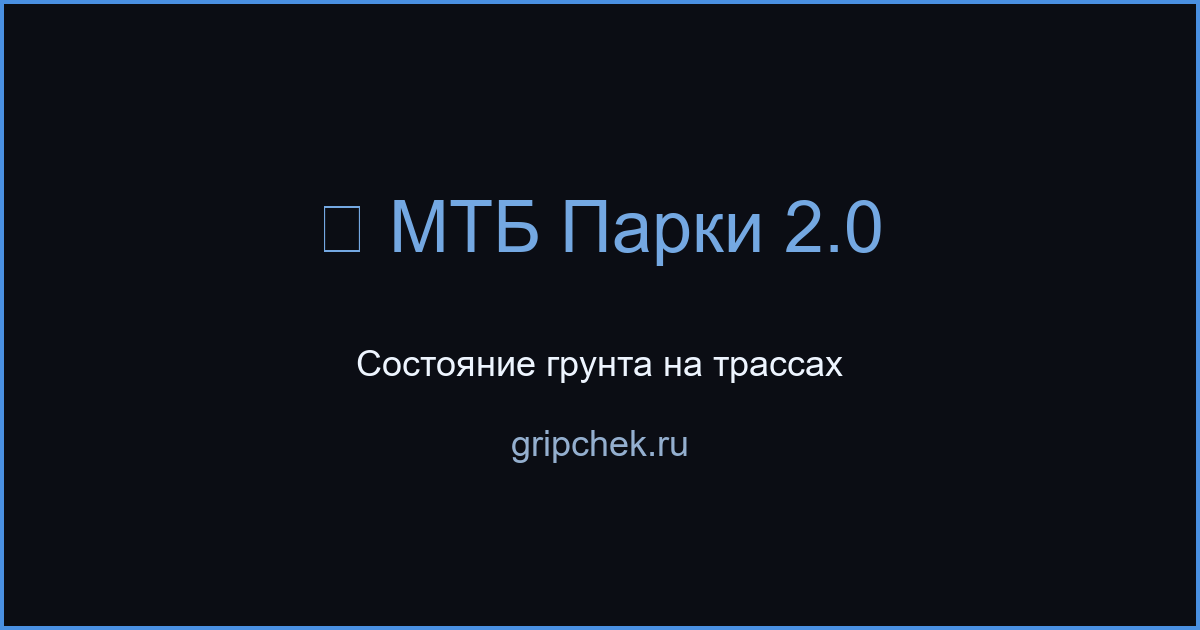
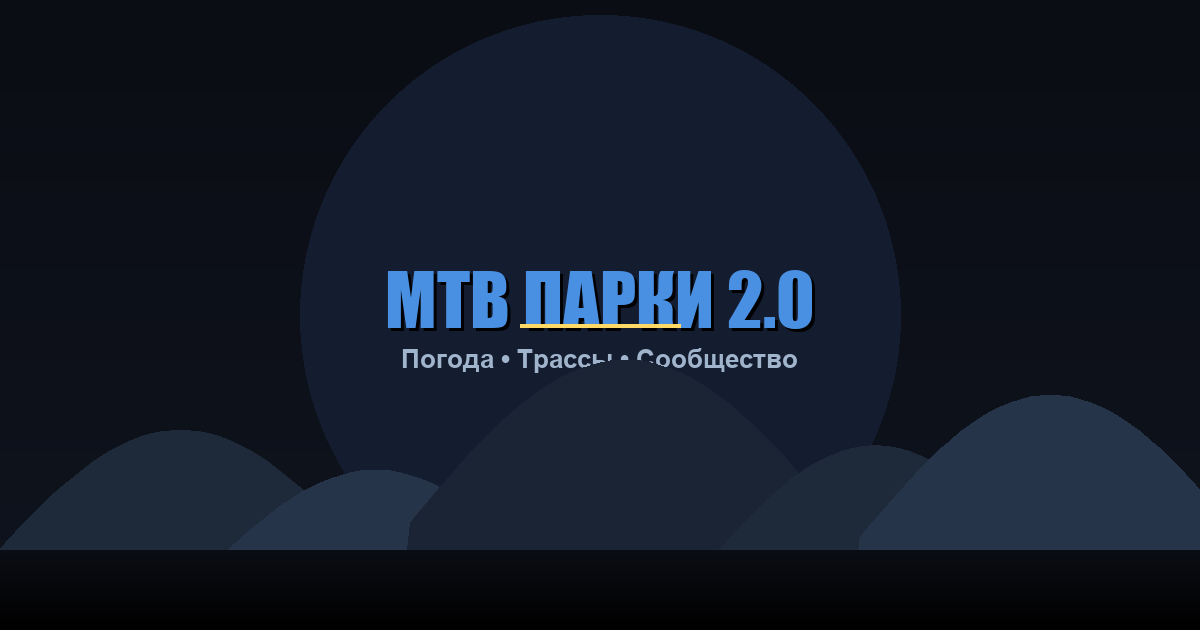
fix: visible OG image (was 99% black) with title, subtitle, mountain silhouette

diff --git a/gen_og.py b/gen_og.py
@@ -1,0 +1,81 @@
+from PIL import Image, ImageDraw, ImageFont, ImageFilter
+import math
+
+W, H = 1200, 630
+img = Image.new('RGB', (W, H), '#0b0d14')
+draw = ImageDraw.Draw(img)
+
+# Gradient overlay: dark blue to darker
+for y in range(H):
+    ratio = y / H
+    r = int(11 + 4 * ratio)
+    g = int(13 + 7 * ratio)
+    b = int(20 + 10 * ratio)
+    draw.line([(0, y), (W, y)], fill=(r, g, b))
+
+# Subtle radial glow in center
+cx, cy = W // 2, H // 2
+for r in range(300, 0, -1):
+    alpha = int(8 * (1 - r / 300))
+    draw.ellipse([cx - r, cy - r, cx + r, cy + r], fill=(20, 28, 48, alpha))
+
+# Load fonts
+font_title = ImageFont.truetype('C:/Windows/Fonts/impact.ttf', 72)
+font_sub = ImageFont.truetype('C:/Windows/Fonts/arialbd.ttf', 26)
+font_small = ImageFont.truetype('C:/Windows/Fonts/arial.ttf', 18)
+
+# Title text
+title = 'MTB ПАРКИ 2.0'
+bbox = draw.textbbox((0, 0), title, font=font_title)
+tw = bbox[2] - bbox[0]
+th = bbox[3] - bbox[1]
+tx = (W - tw) // 2
+ty = H // 2 - 60
+
+# Shadow
+draw.text((tx + 3, ty + 3), title, font=font_title, fill=(0, 0, 0, 128))
+draw.text((tx, ty), title, font=font_title, fill='#4a90e2')
+
+# Accent line under title
+line_y = ty + th + 10
+draw.rectangle([(W // 2 - 80, line_y), (W // 2 + 80, line_y + 3)], fill='#ffd966')
+
+# Subtitle
+sub = 'Погода • Трассы • Сообщество'
+bbox2 = draw.textbbox((0, 0), sub, font=font_sub)
+sw = bbox2[2] - bbox2[0]
+draw.text(((W - sw) // 2, line_y + 20), sub, font=font_sub, fill='#a0b4cc')
+
+# URL at bottom
+url = 'gripchek.ru'
+bbox3 = draw.textbbox((0, 0), url, font=font_small)
+uw = bbox3[2] - bbox3[0]
+draw.text(((W - uw) // 2, H - 50), url, font=font_small, fill='#556677')
+
+# Mountain silhouette at bottom
+def draw_mountain(draw, x, w, h, color, offset_y=0):
+    points = [(x, H - offset_y)]
+    steps = max(10, w // 10)
+    for i in range(steps + 1):
+        px = x + (w * i / steps)
+        py = H - offset_y
+        if 0 < i < steps:
+            py -= h * (0.3 + 0.7 * math.sin(math.pi * i / steps))
+        points.append((px, py))
+    points.append((x + w, H - offset_y))
+    draw.polygon(points, fill=color)
+
+draw_mountain(draw, -20, 400, 200, '#1e2a3a', offset_y=0)
+draw_mountain(draw, 200, 350, 150, '#253448', offset_y=10)
+draw_mountain(draw, 400, 450, 250, '#1a2434', offset_y=20)
+draw_mountain(draw, 700, 350, 180, '#1e2a3a', offset_y=5)
+draw_mountain(draw, 850, 400, 220, '#253448', offset_y=15)
+
+# Bottom gradient fade
+for y in range(H - 80, H):
+    alpha = int(255 * (y - (H - 80)) / 80)
+    draw.line([(0, y), (W, y)], fill=(int(11*(1-alpha/255) + 0*alpha/255), int(13*(1-alpha/255) + 0*alpha/255), int(20*(1-alpha/255) + 0*alpha/255)))
+
+# Save
+img.save('static/og-image.png', 'PNG')
+print('OG image saved')
